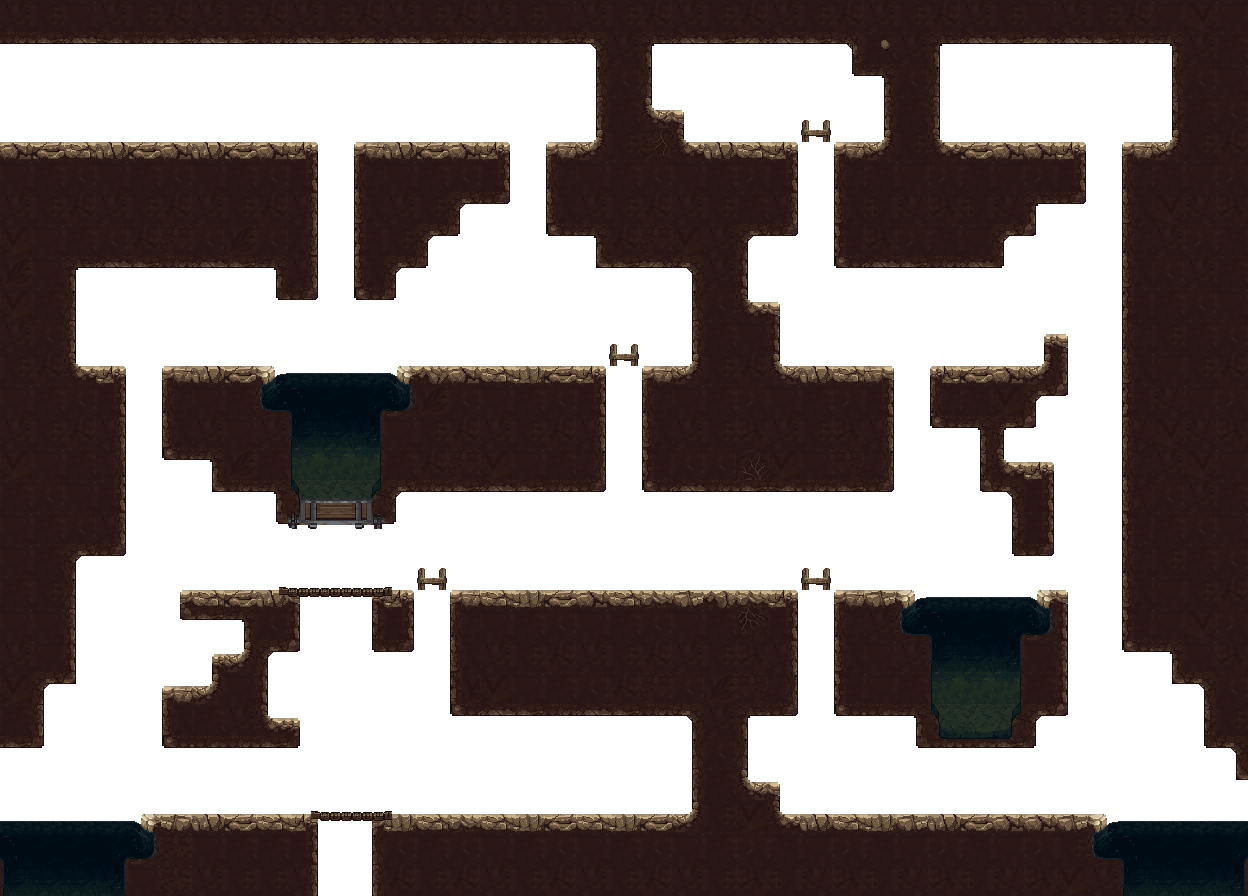
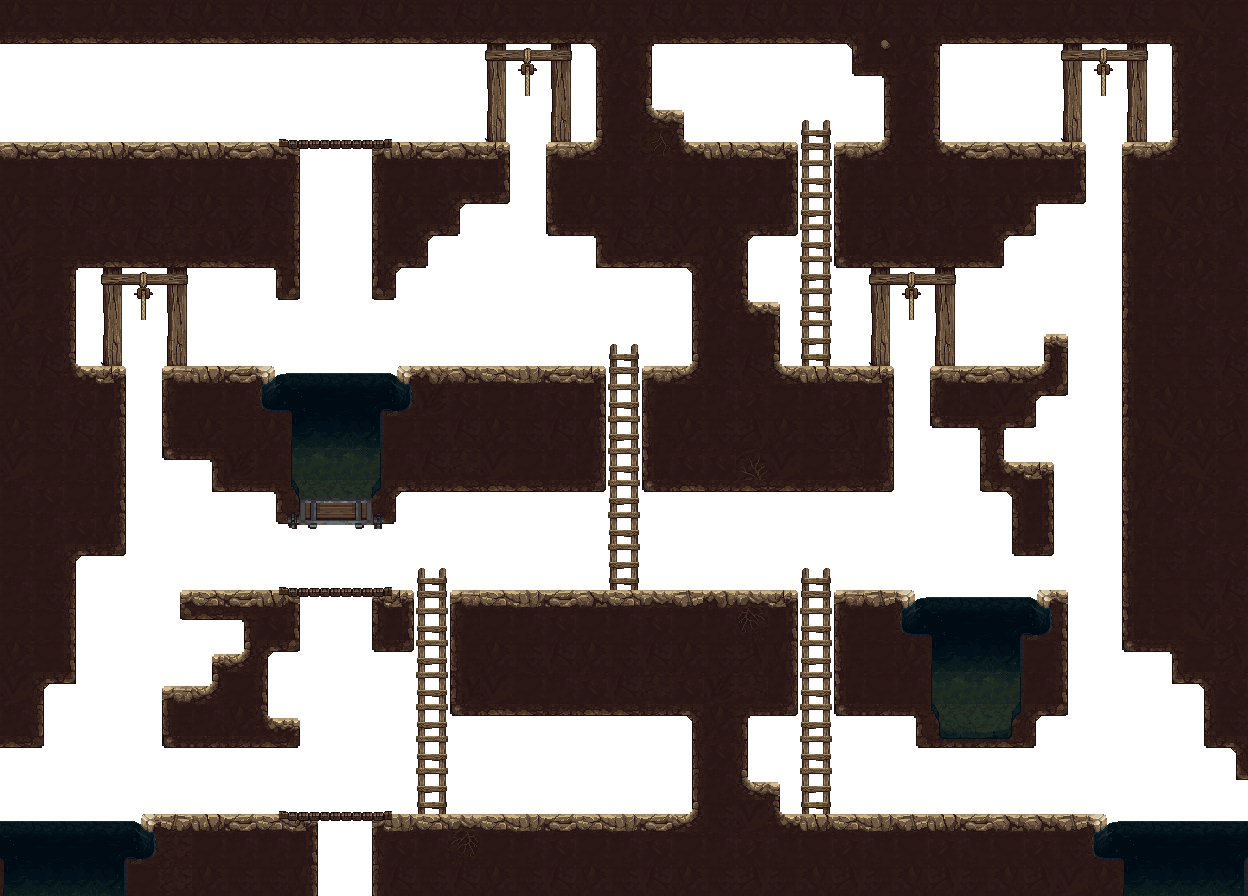
Add background and foreground map layers to enhance world visuals

diff --git a/index.html b/index.html
@@ -445,6 +445,7 @@
 
                     <div class="world">
                          <div class="world-layer world-layer--environment">
+                              <div class="last-background-map"></div>
                               <div class="environment-map"></div>
                               <div class="structures-map"></div>
                               <div class="debug-colors-map"></div>
@@ -600,6 +601,12 @@
                              In front of the player on purpose, removed for
                              good once the node-7 lever is used. -->
                               <div class="object--waterfall"></div>
+
+                              <!-- Full-map decor overlay (hanging vines/roots),
+                             see scss/world/_room.scss — painted last so it
+                             sits in front of every other foreground object
+                             and the player. -->
+                              <div class="foreground-map"></div>
                          </div>
 
                          <!-- NOT nested inside .world-layer--objects (see

diff --git a/css/main.css b/css/main.css
@@ -1219,6 +1219,19 @@ input {
   image-rendering: pixelated;
 }
 
+.last-background-map {
+  position: absolute;
+  top: 0;
+  left: 0;
+  width: 2496px;
+  height: 1792px;
+  pointer-events: none;
+  background-image: url("../assets/world/carvernwake-last-background.png");
+  background-size: 2496px 1792px;
+  background-repeat: no-repeat;
+  image-rendering: pixelated;
+}
+
 .structures-map {
   position: absolute;
   top: 0;
@@ -1227,6 +1240,19 @@ input {
   height: 1792px;
   pointer-events: none;
   background-image: url("../assets/world/carvernwake-lift-ladder-bridge.png");
+  background-size: 2496px 1792px;
+  background-repeat: no-repeat;
+  image-rendering: pixelated;
+}
+
+.foreground-map {
+  position: absolute;
+  top: 0;
+  left: 0;
+  width: 2496px;
+  height: 1792px;
+  pointer-events: none;
+  background-image: url("../assets/world/carvernwake-forground.png");
   background-size: 2496px 1792px;
   background-repeat: no-repeat;
   image-rendering: pixelated;
